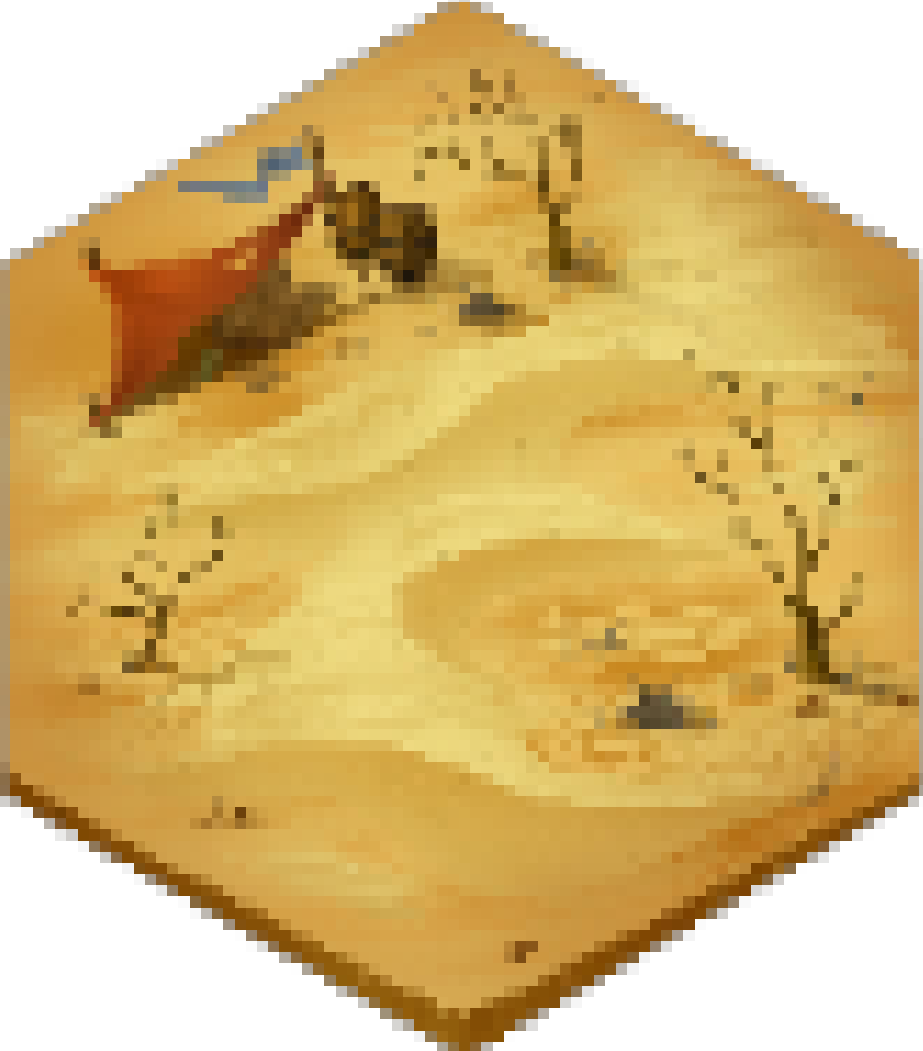
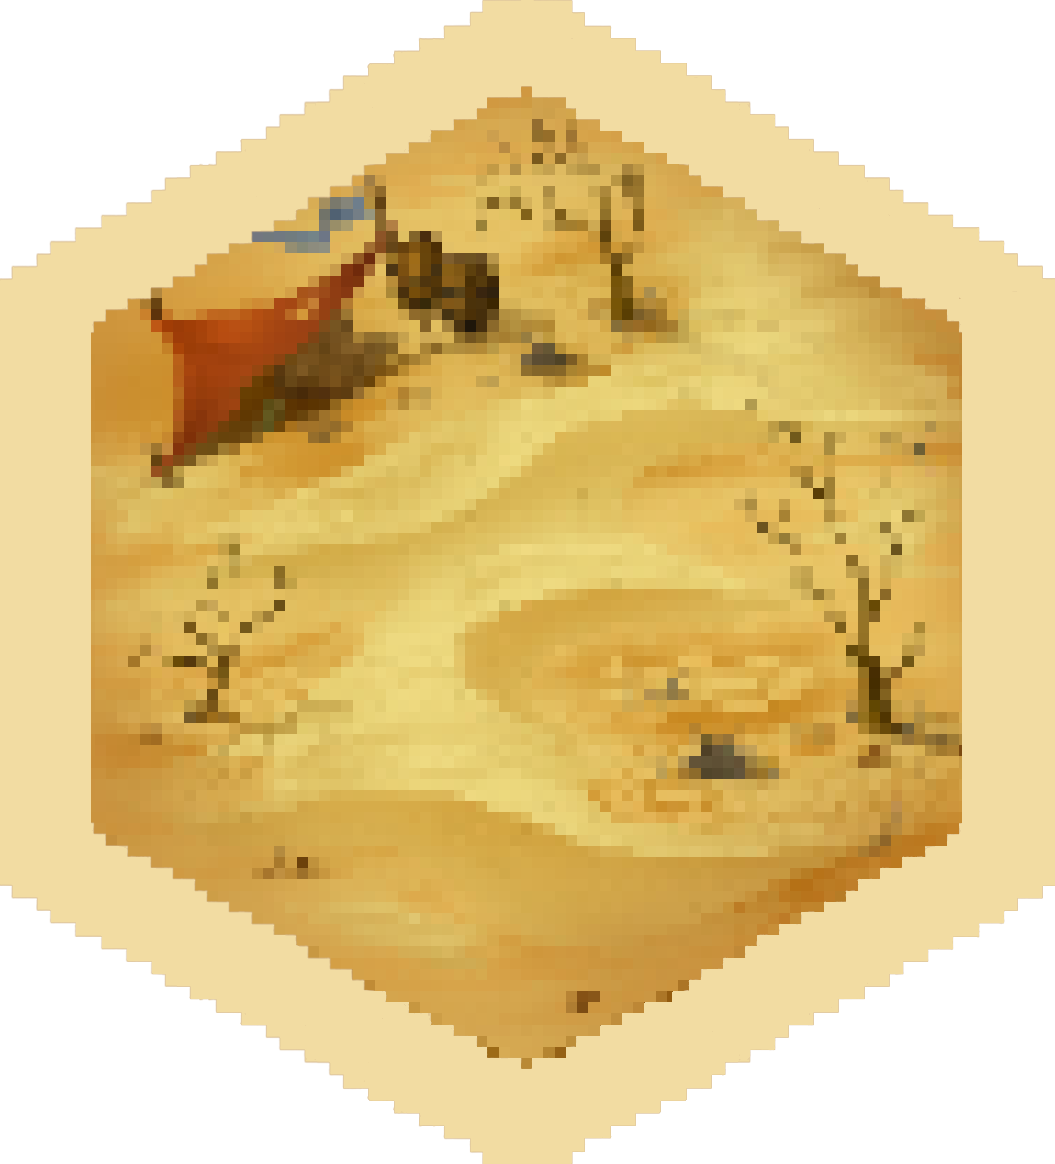
Added GameScreen board creation

diff --git a/src/main/java/com/lovelaced/GameScreenController.java b/src/main/java/com/lovelaced/GameScreenController.java
@@ -1,20 +1,97 @@
 package com.lovelaced;
 
-import java.net.URL;
-import java.util.ResourceBundle;
+import com.board.Board;
+import com.board.Hexagon;
+import com.game.Game;
+import com.game.Player;
 import javafx.fxml.FXML;
+import javafx.scene.control.Label;
+import javafx.scene.image.Image;
+import javafx.scene.image.ImageView;
+import javafx.scene.layout.AnchorPane;
+
+import java.io.FileInputStream;
+import java.io.FileNotFoundException;
+import java.util.ArrayList;
+
 
 public class GameScreenController {
 
     @FXML
-    private ResourceBundle resources;
+    private AnchorPane boardPane;
 
     @FXML
-    private URL location;
+    private Label nameLabel1, nameLabel2, nameLabel3, nameLabel4;
+
+    @FXML
+    private ImageView playerBoard1, playerBoard2, playerBoard3, playerBoard4;
+    private ArrayList<Player> players = new ArrayList<>();
+    public void startBoard(){
+        new Game();
+        players = Game.getPlayerList();
+
+        initializePlayers(); //Adds player info to the scene
+        initializeHexagons(); //Adds hexagons to the scene
+    }
+
+    private void initializeHexagons() {
+        for(Hexagon hex : Board.getHexagonList()){
+            ImageView hexagon = new ImageView(hex.getImage());
+            hexagon.setLayoutX(hex.getCoords().getX());
+            hexagon.setLayoutY(hex.getCoords().getY());
+            hexagon.setFitHeight(195);
+            hexagon.setFitWidth(178);
+            hexagon.toFront();
+            boardPane.getChildren().add(hexagon);
+
+            try {
+                if( !hex.getBiome().equals("Desert") ) {
+                    ImageView hexagonNumber = new ImageView(new Image(new FileInputStream("src/main/resources/assets/hexagons/hexagonNumbers/no."+hex.getNumber()+".png")));
+                    hexagonNumber.setLayoutX(hex.getCoords().getX()+48);
+                    hexagonNumber.setLayoutY(hex.getCoords().getY()+52);
+                    hexagonNumber.setFitHeight(80);
+                    hexagonNumber.setFitWidth(80);
+                    hexagonNumber.toFront();
+                    boardPane.getChildren().add(hexagonNumber);
+                } else {
+                    ImageView pirate = new ImageView(hex.getHasPirate().getImage());
+                    pirate.setLayoutX(hex.getCoords().getX()+55);
+                    pirate.setLayoutY(hex.getCoords().getY()+23);
+                    pirate.setFitHeight(119);
+                    pirate.setFitWidth(93);
+                    pirate.toFront();
+                    boardPane.getChildren().add(pirate);
+                }
+            } catch (FileNotFoundException e) {
+                throw new RuntimeException(e);
+            }
+        }
+    }
+
+    private void initializePlayers() {
+        nameLabel1.setText(players.get(0).getName());
+        playerBoard1.setImage(players.get(0).getImage());
+
+        nameLabel2.setText(players.get(1).getName());
+        playerBoard2.setImage(players.get(1).getImage());
+
+        if( players.size() > 2 ) {
+            nameLabel3.getParent().setVisible(true);
+            nameLabel3.setText(players.get(2).getName());
+            playerBoard3.setImage(players.get(2).getImage());
+        }
+
+        if( players.size() > 3 ) {
+            nameLabel4.getParent().setVisible(true);
+            nameLabel4.setText(players.get(3).getName());
+            playerBoard4.setImage(players.get(3).getImage());
+        }
+    }
 
     @FXML
     void initialize() {
 
-    }
+        assert boardPane != null : "fx:id=\"boardPane\" was not injected: check your FXML file 'GameScreen-view.fxml'.";
 
+    }
 }

diff --git a/src/main/java/com/board/Board.java b/src/main/java/com/board/Board.java
@@ -1,23 +1,18 @@
 package com.board;
 
 import java.io.BufferedReader;
-import java.io.FileInputStream;
-import java.io.FileOutputStream;
 import java.io.FileReader;
 import java.io.IOException;
-import java.io.ObjectInputStream;
-import java.io.ObjectOutputStream;
 import java.util.ArrayList;
 import java.util.HashMap;
 import java.util.Random;
 
 //Class representing the board of the game. Creates and stores a list of all the hexagons.
 public class Board {
-	//We need to update the offset with the corresponding image sizes
-	private final double XLOCATION = 396;
-	private final double YLOCATION = 14;
-	private final double XOFFSET = 930;
-	private final double YOFFSET = 782;
+	private final double XLOCATION = 0;
+	private final double YLOCATION = 0;
+	private final double XOFFSET = 161;
+	private final double YOFFSET = 140;
 	private static ArrayList<Hexagon> hexagons = new ArrayList<>(); //List of hexagons in the board
 	private HashMap<Integer, String> biomes = new HashMap<>();
 
@@ -31,7 +26,7 @@ public class Board {
 			FileReader fileReader = new FileReader("src/main/resources/map/StartingMap.txt");
 			BufferedReader reader = new BufferedReader(fileReader);
 
-			double currentX = XLOCATION;
+			double currentX = XLOCATION+XOFFSET/2;
 			double currentY = YLOCATION;
 			int row = 1;
 
@@ -52,25 +47,13 @@ public class Board {
 					}
 
 					//Creates the hexagons
-					switch( Integer.parseInt(String.valueOf(s.charAt(2))) ) {
-						case 1:
-							hexagons.add(new Hexagon(coords, biomes.get(1), port));
-							break;
-						case 2:
-							hexagons.add(new Hexagon(coords, biomes.get(2), port));
-							break;
-						case 3:
-							hexagons.add(new Hexagon(coords, biomes.get(3), port));
-							break;
-						case 4:
-							hexagons.add(new Hexagon(coords, biomes.get(4), port));
-							break;
-						case 5:
-							hexagons.add(new Hexagon(coords, biomes.get(5), port));
-							break;
-						case 6:
-							hexagons.add(new Hexagon(coords, biomes.get(6), port));
-							break;
+					switch (Integer.parseInt(String.valueOf(s.charAt(2)))) {
+						case 1 -> hexagons.add(new Hexagon(coords, biomes.get(1), port));
+						case 2 -> hexagons.add(new Hexagon(coords, biomes.get(2), port));
+						case 3 -> hexagons.add(new Hexagon(coords, biomes.get(3), port));
+						case 4 -> hexagons.add(new Hexagon(coords, biomes.get(4), port));
+						case 5 -> hexagons.add(new Hexagon(coords, biomes.get(5), port));
+						case 6 -> hexagons.add(new Hexagon(coords, biomes.get(6), port));
 					}
 					currentX += XOFFSET;
 				}
@@ -79,7 +62,7 @@ public class Board {
 				//Offsets the x and y cordinates for the next row of hexagons
 				currentY += YOFFSET;
 				currentX = XLOCATION;
-				if( row % 2 == 0) {
+				if( row % 2 != 0) {
 					currentX += XOFFSET/2;
 				}
 
@@ -96,7 +79,7 @@ public class Board {
 	}
 
 	public void addHexagon(Hexagon e) {
-		this.hexagons.add(e);
+		Board.hexagons.add(e);
 	}
 
 	public static ArrayList<Hexagon> getHexagonList() {
@@ -125,6 +108,8 @@ public class Board {
 				randomNumber = rand.nextInt(numbers.size());
 				hex.setNumber(numbers.get(randomNumber));
 				numbers.remove(randomNumber);
+			} else {
+				hex.setNumber(7);
 			}
 		}
 	}
@@ -137,5 +122,6 @@ public class Board {
 		this.biomes.put(4, "Forest");
 		this.biomes.put(5, "Sheep");
 		this.biomes.put(6, "Clay");
+		this.biomes.put(7, "All");
 	}
 }

diff --git a/src/main/java/com/board/Pirate.java b/src/main/java/com/board/Pirate.java
@@ -21,7 +21,7 @@ public class Pirate {
 		this.belongsTo = hexagon;
 
 		try {
-			this.image = new Image(new FileInputStream("src/main/resources/assets/pirate/Pirate.png"));
+			this.image = new Image(new FileInputStream("src/main/resources/assets/hexagons/pirate/Pirate.png"));
 		} catch (FileNotFoundException e) {
 			throw new RuntimeException(e);
 		}
@@ -47,10 +47,10 @@ public class Pirate {
 	//Steals a random material or card from a victim and gives it to the perpetrator.
 	public void stealForPlayer(Player victim, Player perpetrator){
 		Random rand = new Random();
-		HashMap<String, Integer> victimMaterials = victim.getMaterials();
+		HashMap<String, Integer> victimMaterials = victim.getMaterials(); //HashMap containing quantities for every possible material that the victim can have
 
 		if(victim.getMaterialAmount("Sum") >= 1 ){
-			ArrayList<String> materials = new ArrayList<>(victim.getMaterials().keySet()); //Array that contains the victims materials
+			ArrayList<String> materials = new ArrayList<>(); //Array that contains only the names of the materials that the victim possesses
 
 			for(String material : victimMaterials.keySet()){
 				if( victimMaterials.get(material) > 0 ){
@@ -71,5 +71,9 @@ public class Pirate {
 			victim.removeCard(cardToBeRemoved);
 			perpetrator.addCard(cardToBeRemoved);
 		}
+	}
+
+	public Image getImage(){
+		return this.image;
 	}
 }

diff --git a/src/main/java/com/game/Player.java b/src/main/java/com/game/Player.java
@@ -1,11 +1,6 @@
 package com.game;
 
-import com.board.Structure;
 import javafx.scene.image.Image;
-import javafx.scene.paint.Color;
-
-import java.io.FileInputStream;
-import java.io.FileNotFoundException;
 import java.util.ArrayList;
 import java.util.HashMap;
 import java.util.Random;
@@ -35,6 +30,10 @@ public class Player {
 
 	public String getName () {
 		return name;
+	}
+
+	public Image getImage () {
+		return avatar;
 	}
 
 	public void initializeMaterialAmounts(){
@@ -89,6 +88,9 @@ public class Player {
 		this.materials.put(structure, this.materials.get(structure) + amount);
 	}
 
+	public void subtractStructure(String structure, int amount){
+		this.materials.put(structure, this.materials.get(structure) - amount);
+	}
 
 	public int getPoints(){
 		return this.points;

diff --git a/src/main/java/com/game/Game.java b/src/main/java/com/game/Game.java
@@ -2,13 +2,8 @@ package com.game;
 
 import com.board.Board;
 import com.board.Hexagon;
-import javafx.scene.paint.Color;
-
-import java.lang.reflect.Array;
 import java.util.ArrayList;
-import java.util.Collection;
 import java.util.Collections;
-import java.util.Iterator;
 public class Game {
 	private static ArrayList<Player> players = new ArrayList<>();
 	private static ArrayList<Card> cards = new ArrayList<>();
@@ -20,12 +15,8 @@ public class Game {
 		board = new Board();
 		quest = new Quest(players);
 		Game.currentPlayer = 0;
-        Game.initializeCards();
+      //  Game.initializeCards();
 	}
-	public static void main(String[] args) {
-		Game game = new Game();
-	}
-
 	public static Player getCurrentPlayer(){
 		return Game.players.get(currentPlayer);
 	}

diff --git a/src/main/java/com/board/Village.java b/src/main/java/com/board/Village.java
@@ -29,6 +29,8 @@ public class Village extends Structure{
 			}
 			if( structures[position] == null || structures[position] instanceof Road ){
 				structures[position] = this;
+				this.owner.addStructure("Village", 1);
+
 				this.owner.subtractMaterial("Wood", 1);
 				this.owner.subtractMaterial("Clay", 1);
 				this.owner.subtractMaterial("Sheep", 1);
@@ -52,6 +54,8 @@ public class Village extends Structure{
 				if( structures[i].equals(this) ) {
 					city = new City("", this.coords, this.owner);
 					structures[i] = city;
+					this.owner.addStructure("City", 1);
+					this.owner.subtractStructure("Village", 1);
 
 					this.owner.subtractPoints(this.points);
 					this.owner.addPoints(city.getPoints());

diff --git a/src/main/java/com/board/Road.java b/src/main/java/com/board/Road.java
@@ -18,6 +18,8 @@ public class Road extends Structure {
 		if( canBeBuilt(this.owner) && position % 2 != 0){
 			if( structures[position] == null ){
 				structures[position] = this;
+				this.owner.addStructure("Road", 1);
+
 				this.owner.subtractMaterial("Wood", 1);
 				this.owner.subtractMaterial("Clay", 1);
 			}

diff --git a/src/main/java/com/game/Quest.java b/src/main/java/com/game/Quest.java
@@ -15,7 +15,7 @@ public class Quest {
         Quest.longestArmyAmount = 2;
 
         for(Player p: players){
-            addArmyAmount(p, 0);
+            armyAmounts.put(p, 0);
         }
     }
     public void setHasLongestRoad(Player player) {
